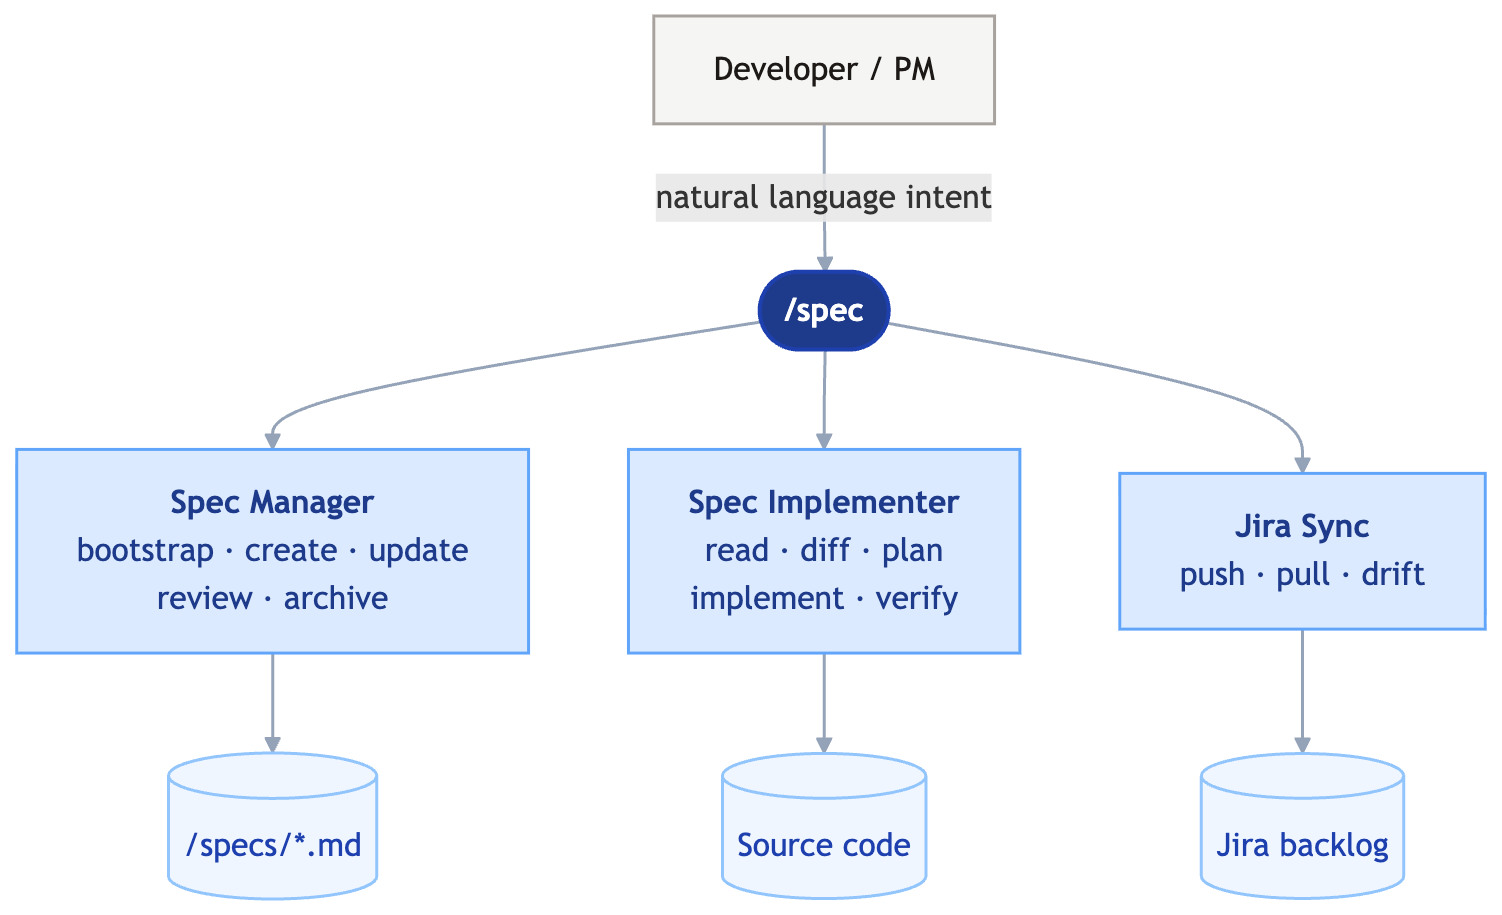
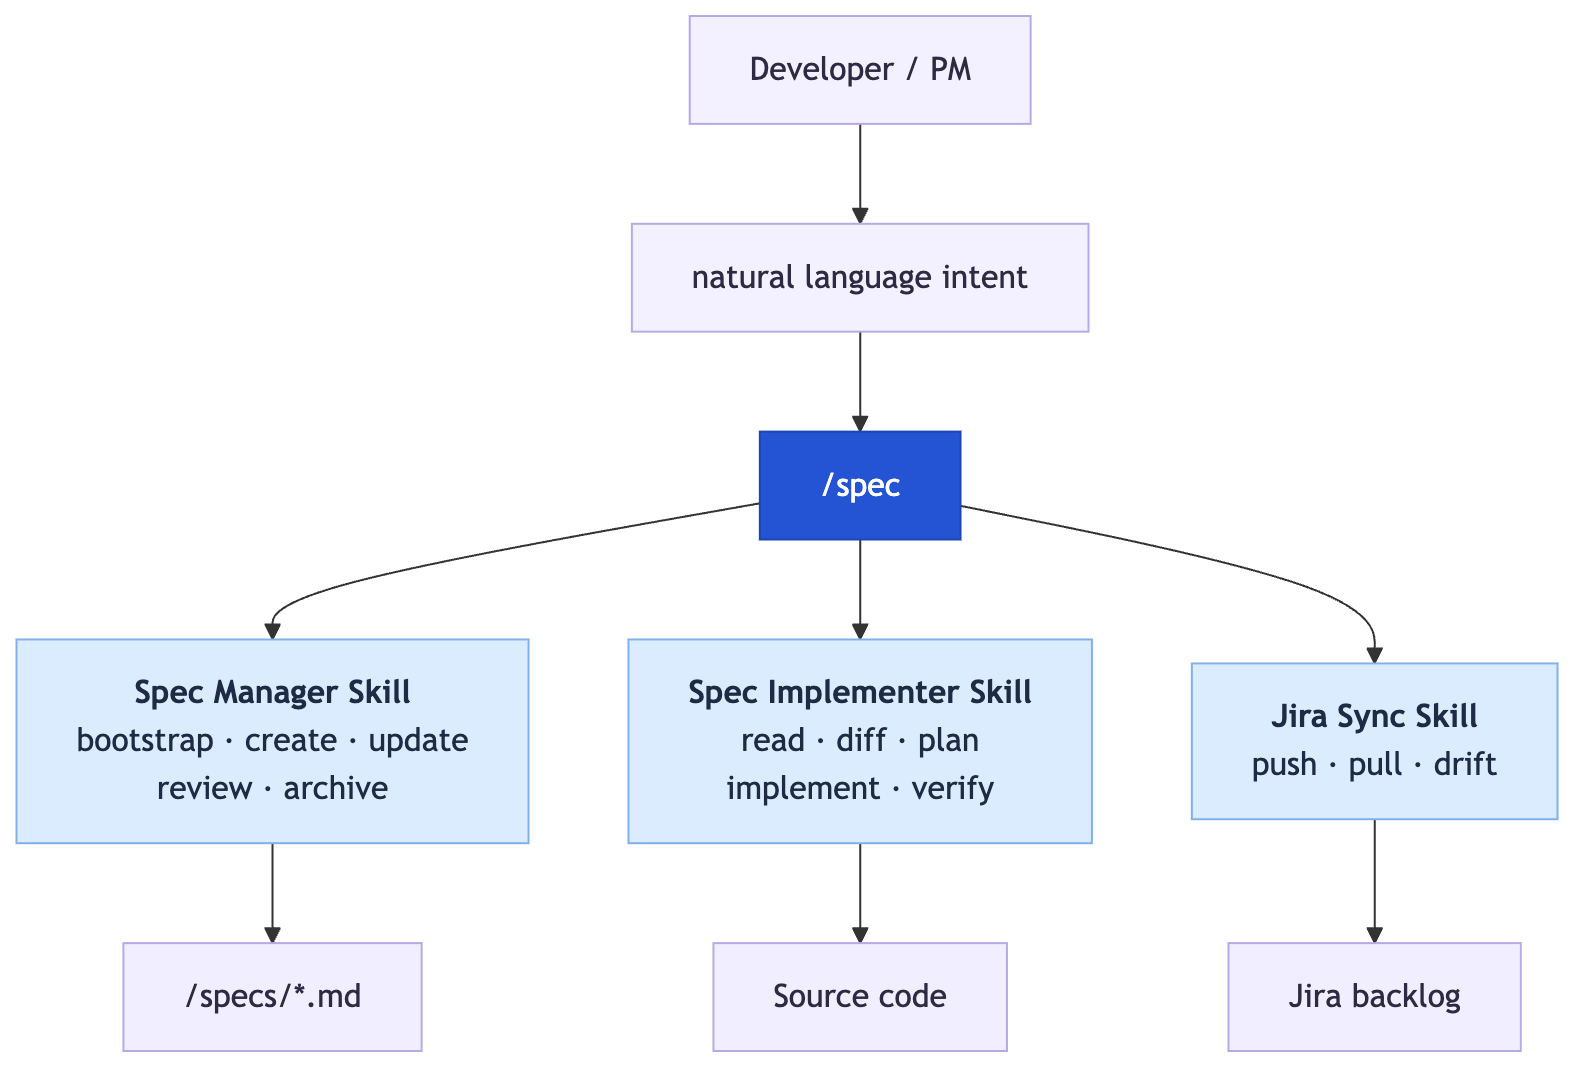
docs: expand Spec-Driven Development terminology + restructure
- Replace 'SDD' acronym with full 'Spec-Driven Development' throughout
- Move 'The Day-to-Day Workflow' under 'Putting It Into Practice' as a subsection (the simple, no-tooling version of practice)
- Reframe orchestrator intro: 15 dev teams, 3-4 currently using Spec-Driven Development, broader adoption is the goal
- Drop downplaying 'feel free to skim' paragraph
- Add 'Layering in Tooling' subheading for the orchestrator pivot
- Refresh /spec orchestrator diagram with cleaner skill-flow visualization

diff --git a/src/data/blog/spec-driven-development-guide.md b/src/data/blog/spec-driven-development-guide.md
@@ -35,7 +35,7 @@ Software development used to have a clear bottleneck: *writing the code*. Since 
 
 The bottleneck is no longer coding. It's **understanding what to build** — and giving the LLM the right context to build it.
 
-That bottleneck doesn't matter for prototypes — vibe-code freely, throw the prompts away, ship. But for **production software that evolves** — real users, features accumulating over months or years, multiple authors, new requirements every week — vibe-coding stops compounding. The "understanding what to build" problem eats the coding gains AI gave you. *That's* what SDD is built for. (We'll get concrete on the failure modes near the end.)
+That bottleneck doesn't matter for prototypes — vibe-code freely, throw the prompts away, ship. But for **production software that evolves** — real users, features accumulating over months or years, multiple authors, new requirements every week — vibe-coding stops compounding. The "understanding what to build" problem eats the coding gains AI gave you. *That's* what Spec-Driven Development is built for. (We'll get concrete on the failure modes near the end.)
 
 ### The new bottleneck: requirements + context
 
@@ -49,7 +49,7 @@ Today, all three are scattered. Requirements live across PMs' minds, Jira, Confl
 
 Onboarding suffers the same way — every new joiner re-derives what the product is *meant to do* from scattered Jira threads and senior-engineer pings.
 
-This is where SDD compounds. A spec captures the requirements, the constraints, and the relevant context in plain Markdown — already in a format the LLM consumes natively. *Find it, structure it, package it for the LLM* collapses into *open the file*.
+This is where Spec-Driven Development compounds. A spec captures the requirements, the constraints, and the relevant context in plain Markdown — already in a format the LLM consumes natively. *Find it, structure it, package it for the LLM* collapses into *open the file*.
 
 ### The sprint has inverted
 
@@ -78,9 +78,9 @@ A few smaller failure modes specs also clean up:
 
 ## What a Spec Actually Is
 
-A spec is a Markdown file that describes — in plain language — what your system is supposed to do for users. The full `/specs` folder, taken together, is a single, version-controlled, exhaustive record of product behavior. **And it's always current** — the spec describes what the system is meant to do *right now*, not what it was meant to do six months ago when some original ticket was written. That distinction matters more than it sounds, and we'll come back to it in a moment. SDD is the practice of treating that folder as the **source of truth**: code is generated from it, tests trace back to it, documentation is regenerated from it. The code becomes downstream of the spec. **The spec becomes the contract.**
+A spec is a Markdown file that describes — in plain language — what your system is supposed to do for users. The full `/specs` folder, taken together, is a single, version-controlled, exhaustive record of product behavior. **And it's always current** — the spec describes what the system is meant to do *right now*, not what it was meant to do six months ago when some original ticket was written. That distinction matters more than it sounds, and we'll come back to it in a moment. Spec-Driven Development is the practice of treating that folder as the **source of truth**: code is generated from it, tests trace back to it, documentation is regenerated from it. The code becomes downstream of the spec. **The spec becomes the contract.**
 
-That's a small but important inversion. Most teams treat code as the source of truth and docs as commentary that goes stale a week later. SDD flips the polarity.
+That's a small but important inversion. Most teams treat code as the source of truth and docs as commentary that goes stale a week later. Spec-Driven Development flips the polarity.
 
 ### What derives from the spec
 
@@ -92,7 +92,7 @@ The same compression happening on the coding side now happens anywhere downstrea
 
 ### Spec vs Jira ticket vs PRD
 
-The most common pushback when introducing SDD is *"don't user stories already do this?"* Not really. These three artifacts capture different shapes of requirement, and confusing them is the main reason teams resist SDD ("we already have Jira").
+The most common pushback when introducing Spec-Driven Development is *"don't user stories already do this?"* Not really. These three artifacts capture different shapes of requirement, and confusing them is the main reason teams resist Spec-Driven Development ("we already have Jira").
 
 | Artifact          | Shape                                                                    | Time horizon                                                         |
 | ----------------- | ------------------------------------------------------------------------ | -------------------------------------------------------------------- |
@@ -199,7 +199,7 @@ Each acceptance criterion gets a stable ID (`AC-1`, `AC-2`, …) so you can refe
 
 ## What Makes a Good Spec
 
-A few rules of thumb that hold up across every project we've used SDD on. Don't over-think this — the goal is *good enough to align on*, not perfect.
+A few rules of thumb that hold up across every project we've used Spec-Driven Development on. Don't over-think this — the goal is *good enough to align on*, not perfect.
 
 - **No duplicate requirements.** Each requirement should live in exactly one spec. We use **MECE** as the breakdown principle when splitting specs across files — *mutually exclusive* (no two specs cover the same requirement) and *collectively exhaustive* (every user-facing behavior lives somewhere). When two specs touch the same requirement, the one whose domain owns the data wins; the other cross-references it.
 - **Plain language, testable.** Each acceptance criterion should be specific enough for a QA to write a test from it, written without implementation jargon. Vague ACs ("should work well", "perform reliably") are dead weight.
@@ -208,7 +208,30 @@ A few rules of thumb that hold up across every project we've used SDD on. Don't 
 
 A spec that's 70% right and updated weekly beats a 95%-right spec that goes stale in two months. Iterate.
 
-## The Day-to-Day Workflow
+## Specs and Project Management
+
+The most common question I get: *"Does this replace Jira?"*
+
+Answer: it depends on your team. Two valid models, pick the one that fits.
+
+| Factor                   | Specs + Jira                                          | Specs + `/tasks` folder                            |
+| ------------------------ | ----------------------------------------------------- | -------------------------------------------------- |
+| **Best when**            | Org needs Jira for reporting, time tracking, or compliance | Small-to-medium team optimizing for speed     |
+| **Requirements**         | `/specs` (source of truth)                            | `/specs` (source of truth)                         |
+| **Task tracking**        | Jira epics / stories                                  | `/tasks` folder of Markdown files                  |
+| **Time logging**         | Jira time tracking                                    | External tool or not tracked                       |
+| **Audit trail**          | Jira history + Git history                            | Git history + PR reviews                           |
+| **Cross-team dashboards** | Jira filters and reports                             | `git log` + repo navigation                        |
+
+Most of our enterprise projects run **Specs + Jira**. Each tool does what it's best at — specs are the exhaustive requirements record; Jira is the task tracker and sprint planning surface. The `/spec` orchestrator covered in the next chapter includes a Jira sync skill that pushes spec acceptance criteria into Jira as epics and stories, so the two stay in lockstep.
+
+For smaller teams that want to drop Jira entirely, the alternative is to apply the same Spec-Driven Development pattern to tasks themselves — a `/tasks` folder of Markdown files, version-controlled alongside `/specs`. That's covered further down in [Specs Beyond Coding](#specs-beyond-coding).
+
+## Putting It Into Practice
+
+The Spec-Driven Development process is simple enough — and AI tools have gotten so good — that you don't need any tooling beyond a `/specs` folder, the template, and the rule *"always update the spec before writing code."* If you're a small team or a solo developer, plain Claude Code (or Cursor, or Copilot) is enough — point it at the folder and ship. No orchestrator required. A single lightweight Claude skill that knows the conventions is the most you'd need.
+
+### The Day-to-Day Workflow
 
 Once specs exist, the workflow collapses to one rule:
 
@@ -241,32 +264,11 @@ That's it. With modern models (late 2025 onwards), this works for most use cases
 
 The spec diff is the implementation brief.
 
-## Specs and Project Management
+### Layering in Tooling
 
-The most common question I get: *"Does this replace Jira?"*
+That said — if you really want consistently high-quality, reliable specs, you can layer in tooling: a single Claude skill that knows the conventions, or — more powerful — multiple skills wired together behind an orchestrator.
 
-Answer: it depends on your team. Two valid models, pick the one that fits.
-
-| Factor                   | Specs + Jira                                          | Specs + `/tasks` folder                            |
-| ------------------------ | ----------------------------------------------------- | -------------------------------------------------- |
-| **Best when**            | Org needs Jira for reporting, time tracking, or compliance | Small-to-medium team optimizing for speed     |
-| **Requirements**         | `/specs` (source of truth)                            | `/specs` (source of truth)                         |
-| **Task tracking**        | Jira epics / stories                                  | `/tasks` folder of Markdown files                  |
-| **Time logging**         | Jira time tracking                                    | External tool or not tracked                       |
-| **Audit trail**          | Jira history + Git history                            | Git history + PR reviews                           |
-| **Cross-team dashboards** | Jira filters and reports                             | `git log` + repo navigation                        |
-
-Most of our enterprise projects run **Specs + Jira**. Each tool does what it's best at — specs are the exhaustive requirements record; Jira is the task tracker and sprint planning surface. The `/spec` orchestrator covered in the next chapter includes a Jira sync skill that pushes spec acceptance criteria into Jira as epics and stories, so the two stay in lockstep.
-
-For smaller teams that want to drop Jira entirely, the alternative is to apply the same SDD pattern to tasks themselves — a `/tasks` folder of Markdown files, version-controlled alongside `/specs`. That's covered further down in [Specs Beyond Coding](#specs-beyond-coding).
-
-## Putting It Into Practice
-
-Honestly, the SDD process is simple enough that you don't need any tooling beyond a `/specs` folder, the template, and the rule *"always update the spec before writing code."* If you're a small team or a solo developer, plain Claude Code (or Cursor, or Copilot) is enough — point it at the folder and ship. No orchestrator required. A single lightweight Claude skill that knows the conventions is the most you'd need.
-
-We've built more than that because we needed **consistency across teams**. Tecknoworks runs SDD on **over 15 development teams** now, and standardizing how specs get bootstrapped, updated, implemented, and synced across every project required shared infrastructure. We built it with a small set of Claude skills wired together behind a single command: **`/spec`**.
-
-If you're a smaller team or working on a single project, the rest of this section is mostly informational — feel free to skim. If you're trying to run SDD across multiple squads consistently, this is the model we landed on.
+We've built one because we want every team to adopt this eventually. Tecknoworks runs **15 development teams**, with **3–4 currently using Spec-Driven Development** — and getting broader adoption means making the workflow easy enough that any team can pick it up. The orchestrator wires a small set of Claude skills together behind a single command: **`/spec`**.
 
 You don't memorize subcommands or flags. You type `/spec`, optionally describe what you want in plain language, and the orchestrator figures out the right action from the project state and your intent.
 
@@ -320,7 +322,7 @@ That's it. Under the hood the skill reads the full spec, runs `git diff` to see 
 This is the optional skill that keeps specs and Jira honest if your org uses both. Three modes:
 
 - **Specs → Jira** — push spec acceptance criteria as Jira stories, grouped under one epic per spec file.
-- **Jira → Specs** — bootstrap specs from an existing Jira backlog (useful when adopting SDD on a long-running project).
+- **Jira → Specs** — bootstrap specs from an existing Jira backlog (useful when adopting Spec-Driven Development on a long-running project).
 - **Drift Check** — compare both sides and report the gap.
 
 The mapping is straightforward:
@@ -379,7 +381,7 @@ If the test cases are themselves committed alongside the spec (or generated on d
 
 ### Task management with a /tasks folder
 
-The same pattern that works for specs works for tasks. Most teams I've seen adopt SDD eventually drop manual Jira ticket creation and manage tasks the same way: a `/tasks` folder of Markdown files, version-controlled alongside `/specs` and the code.
+The same pattern that works for specs works for tasks. Most teams I've seen adopt Spec-Driven Development eventually drop manual Jira ticket creation and manage tasks the same way: a `/tasks` folder of Markdown files, version-controlled alongside `/specs` and the code.
 
 The structure mirrors the spec folder — one task file per feature or domain area, with each file listing the work derived from the corresponding spec. When a spec gets a new acceptance criterion, the matching task file gets a new entry. Tasks track status (Not Started / In Progress / Done), reference specific AC IDs, and capture blockers or open questions inline. Claude generates the task entries directly from spec diffs, so the manual translation step ("now go create the Jira ticket") disappears.
 
@@ -393,7 +395,7 @@ For organizations that need Jira for reporting, time tracking, or compliance, th
 
 ## What we've seen in practice
 
-We've now deployed SDD across **eight real client projects**, including an engagement with a top-three global management consultancy. The most surprising pattern: **PMs themselves take over the spec-writing**, not just developers.
+We've now deployed Spec-Driven Development across **eight real client projects**, including an engagement with a top-three global management consultancy. The most surprising pattern: **PMs themselves take over the spec-writing**, not just developers.
 
 On that consultancy project, the lead stakeholder installed Claude Code himself in week two. From that point on, after every meeting, *he* updated the specs from the transcript — no developer translation step, no Jira tickets, no requirements-clarification meetings. We dropped Jira entirely. The spec was the contract; the diff was the conversation.
 
@@ -401,13 +403,13 @@ His words: *"It feels like a revolution in product management and software devel
 
 His estimate: **roughly 3x faster delivery** — driven by collapsing the full requirements loop. What used to be daily clarification meetings, Jira tickets, developer translation, and back-and-forth review became a single spec edit feeding the AI directly into a PR.
 
-Across the eight projects, the consistent pattern is **around 50% efficiency gains on requirements-to-merged-PR cycles** vs. the same teams' pre-SDD baseline — biggest wins on long-lived, evolving production software.
+Across the eight projects, the consistent pattern is **around 50% efficiency gains on requirements-to-merged-PR cycles** vs. the same teams' baseline before adopting it — biggest wins on long-lived, evolving production software.
 
 One anecdote that crystallized the case for me: on a separate long-running platform, a single permissioning change once generated *three days* of back-and-forth — contradictory expectations spread across older tickets, no authoritative source for current behavior. The fix was a spec: capture the rules, surface the contradictions, get sign-off, delegate implementation. The same kind of change, today, takes hours.
 
 ## Why vibe-coding breaks at production scale
 
-Earlier I drew a line between vibe-coded prototypes — where SDD is overhead — and production software, where it's a force multiplier. Three failure modes hit at production scale that prototypes never see:
+Earlier I drew a line between vibe-coded prototypes — where Spec-Driven Development is overhead — and production software, where it's a force multiplier. Three failure modes hit at production scale that prototypes never see:
 
 - **Regression risk compounds.** Without a single, current, exhaustive record of expected behavior, every change is a gamble — and "we'll catch it in QA" quietly becomes the only acceptance criterion still holding.
 - **Communication friction explodes.** What's new vs. what already exists vs. what was deprecated becomes a daily debate. Half the sprint is gone before anyone writes code.
